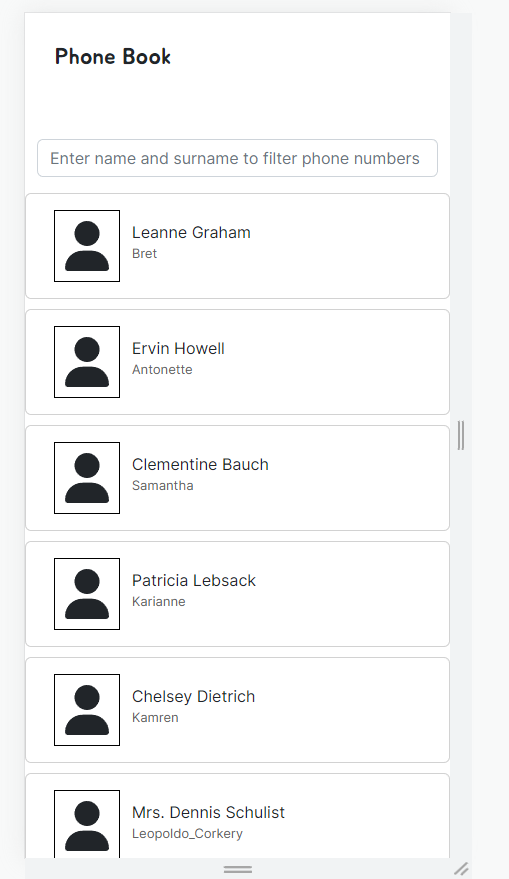
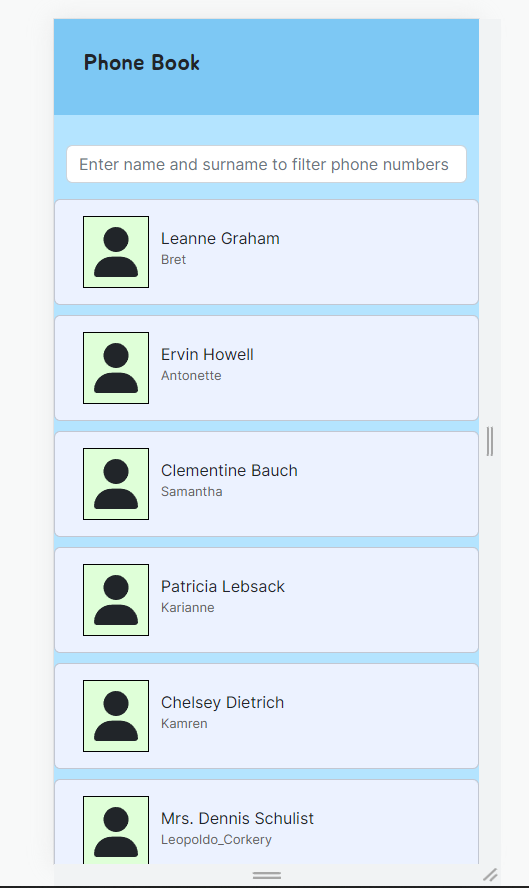
Updated preview images and README.md to Phone Book App

diff --git a/PhoneBookApp/src/App.css b/PhoneBookApp/src/App.css
@@ -1,9 +1,11 @@
 body {
   font-family: "Inter", sans-serif !important;
+  background-color: #B4E4FF !important;
 }
 
 .header {
   padding: 30px;
+  background-color: #7dc8f4;
 }
 
 .header h3 {
@@ -41,6 +43,7 @@ body {
 
 .card {
   margin: 10px 0;
+  background-color: #ECF2FF !important;
 }
 
 .card:hover {
@@ -48,6 +51,7 @@ body {
 }
 
 .card .thumbnail svg {
+  background-color: #DFFFD8;
   border: 1px solid black;
   padding: 10px;
   font-size: 50px;
@@ -68,12 +72,15 @@ body {
 
 .modal-content{
     margin-top:200px;
+    background-color: #FFF4D2 !important;
 }
+
 
 .modal .thumbnail {
   width: 100px;
   height: 100px;
   border: 1px solid rgba(0, 0, 0,0.1);
+  background-color: #DFFFD8;
   margin-bottom: 50px;
   margin:30px auto;
 }

diff --git a/PhoneBookApp/README.md b/PhoneBookApp/README.md
@@ -22,6 +22,9 @@ This project is deployed at https://sahinmaral-phonebook.netlify.app
 ## Preview at mobile display
 <img src="./preview-mobile.png"></img>
 
+## Preview of modal component
+<img src="./modal-component.png"></img>
+
 <br/>
 <br/>
 <br/>
@@ -49,6 +52,9 @@ https://sahinmaral-phonebook.netlify.app sitesine deploy edilmiştir.
 
 ## Telefon ekranında görünümü
 <img src="./preview-mobile.png"></img>
+
+## Modal component görünümü
+<img src="./modal-component.png"></img>
 
 
 <hr />
